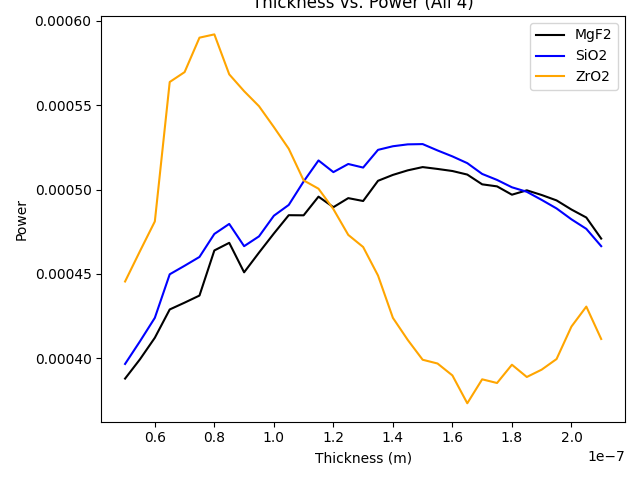
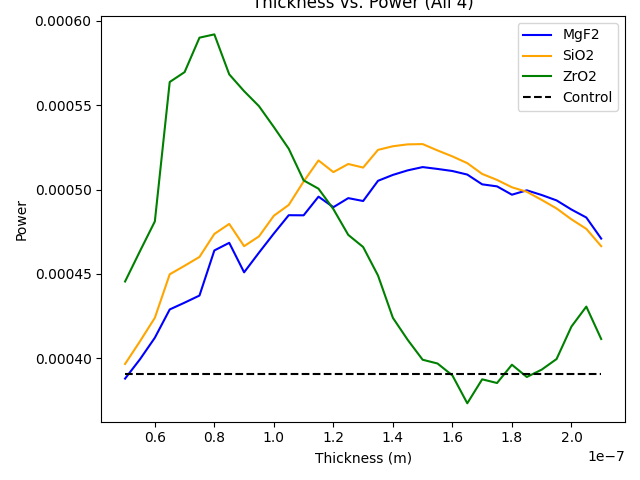
Day 2.1

diff --git a/DataAnalysis.py b/DataAnalysis.py
@@ -97,10 +97,12 @@ def MaxPowerPerThickness(Material):
 
 ##print(len(MaxPowerPerThickness(1)))
 
+control_power_points = [0.00039033198061802157] * 33
+
 for i in range(0,3):
-    plt.plot(Thickness_Values, MaxPowerPerThickness(i), label=(Materials[i+1]), color=Colors[i], linestyle='-')
+    plt.plot(Thickness_Values, MaxPowerPerThickness(i), label=(Materials[i+1]), color=Colors[i+1], linestyle='-')
 
-
+plt.plot(Thickness_Values, control_power_points, label="Control", color="black", linestyle="--")
 plt.xlabel('Thickness (m)')
 plt.ylabel('Power')
 plt.legend()
@@ -146,7 +148,7 @@ interp = RectBivariateSpline(y_unique, x_unique, Z)
 # Create finer grid
 x_fine = np.linspace(x_unique.min(), x_unique.max(), 600)
 y_fine = np.linspace(y_unique.min(), y_unique.max(), 600)
-Z_fine = interp(y_fine, x_fine)
+Z_fine = interp(y_fine, x_fine).T
 
 # --- Step 4: Plot the smooth heatmap ---
 plt.figure(figsize=(8, 6))
@@ -163,6 +165,106 @@ plt.savefig("ZrO2: Thickness, Incidence Angle vs. Max Power.png")
 
 
 #---------------- Thickness and Angle vs Spread --------------------
+def spectral_spread_fixed_center(wavelengths, intensities, center=905e-9, window=3e-9):
+    # Ensure input arrays are NumPy arrays
+    wavelengths = np.asarray(wavelengths)
+    intensities = np.asarray(intensities)
+
+    # Select range around center
+    mask = (wavelengths >= center - window) & (wavelengths <= center + window)
+    wl = wavelengths[mask]
+    inten = intensities[mask]
+    
+    if len(wl) == 0:
+        raise ValueError("No wavelengths within specified window.")
+
+    # Normalize intensities
+    p = inten / np.sum(inten)
+
+    # Weighted spread around center wavelength
+    spread = np.sqrt(np.sum(p * (wl - center)**2))
+    return spread
+
+def SpectralSpreadAtThicknessAndAngle(Material, Angle, Thickness):
+    return max(Data_Matrix[Material][Thickness][Angle])
+
+print(Wavelengths)
+List = []
+for i in range(len(Thickness_Values)):
+    for j in range(len(Angle_Values)):
+        List.append([Thickness_Values[i],Angle_Values[j],spectral_spread_fixed_center(Wavelengths,Data_Matrix[0][i][j])])
+
+
+
+
+data = np.array(List)  # Replace with your actual data variable
+x = data[:, 0]
+y = data[:, 1]
+z = data[:, 2]
+
+# --- Step 2: Create 2D grid ---
+x_unique = np.unique(x)
+y_unique = np.unique(y)
+
+X, Y = np.meshgrid(x_unique, y_unique)
+Z = np.full_like(X, np.nan, dtype=np.float64)
+
+for xi, yi, zi in zip(x, y, z):
+    x_idx = np.where(x_unique == xi)[0][0]
+    y_idx = np.where(y_unique == yi)[0][0]
+    Z[y_idx, x_idx] = zi  # row = y index, col = x index
+
+# --- Step 3: Interpolate to higher resolution grid ---
+interp = RectBivariateSpline(y_unique, x_unique, Z)
+
+# Create finer grid
+x_fine = np.linspace(x_unique.min(), x_unique.max(), 600)
+y_fine = np.linspace(y_unique.min(), y_unique.max(), 600)
+Z_fine = interp(y_fine, x_fine)
+
+# --- Step 4: Plot the smooth heatmap ---
+plt.figure(figsize=(8, 6))
+plt.imshow(Z_fine, extent=(x_unique.min(), x_unique.max(), y_unique.min(), y_unique.max()),
+           origin='lower', aspect='auto', cmap='viridis')
+#plt.scatter(x, y, c=z, cmap='viridis', s=40, edgecolors='white', linewidth=0.8, zorder=4)
+plt.colorbar(label='Spread')
+plt.xlabel('Thickness (m)')
+plt.ylabel('Incident Angle (°)')
+plt.title('MgF2: Thickness, Incidence Angle vs. Spectral Spread')
+plt.tight_layout()
+plt.show()
+plt.savefig("MgF2: Thickness, Incidence Angle vs. Spectral Spread.png")
+
+
+#---------------- Thicknesses vs Power and Spectral Spread -------------------------------
+
+fig, ax1 = plt.subplots(figsize=(8, 4))
+
+for i in range(0,3):
+    ax1.plot(Thickness_Values, MaxPowerPerThickness(i), label=(Materials[i+1] + " Power"), color=Colors[i], linestyle='-')
+
+
+
+ax1.set_xlabel('Thickness (m)')
+ax1.set_ylabel('Power')
+
+ax2 = ax1.twinx()
+ax2.set_ylabel("Spectral Spread")
+
+print("HOG RIDERRR: " + str(Data_Matrix[0][0][0]))
+for i in range(0,3):
+    List = []
+    for x in range(0, 33):
+        List.append(spectral_spread_fixed_center(Wavelengths, Data_Matrix[i][x][0]))
+    ax2.plot(Thickness_Values, List, label=(Materials[i+1] + " Spread"), color=Colors[i], linestyle=':')
+
+fig.legend()
+
+plt.title('Thickness vs. Power, Spectral Spread (All Materials)')
+plt.savefig("Thickness vs. Power, Spectral Spread (All Materials).png")
+
+
+#---------------- Angle & Wavelength vs Spread --------------------
 def spectral_spread_fixed_center(wavelengths, intensities, center=905e-9, window=3e-9):
     # Ensure input arrays are NumPy arrays
     wavelengths = np.asarray(wavelengths)
